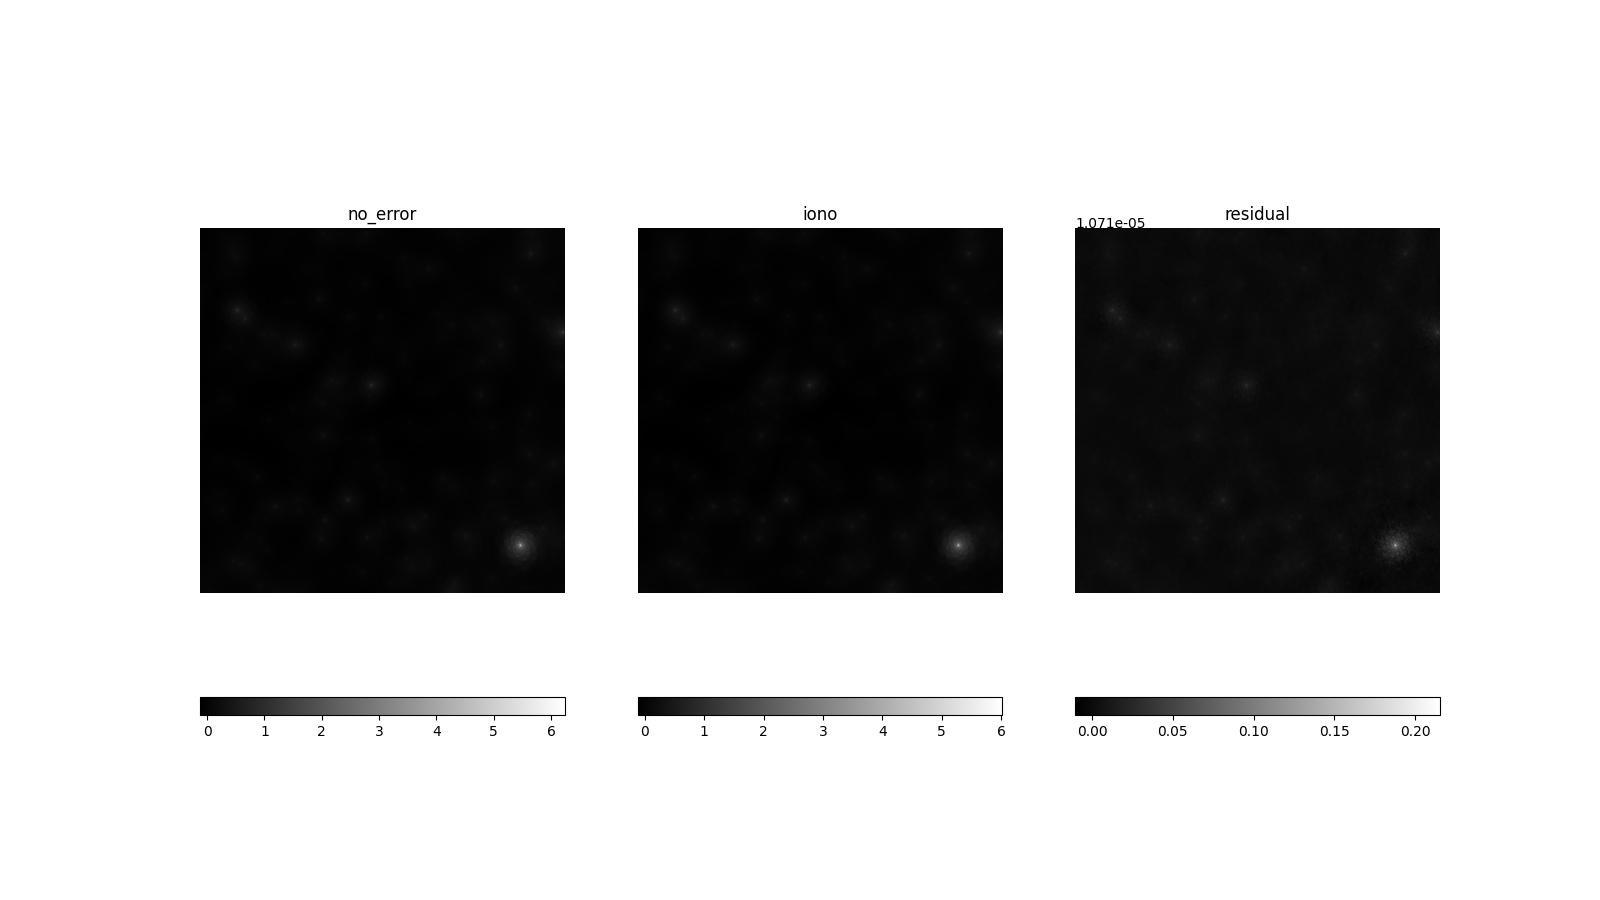
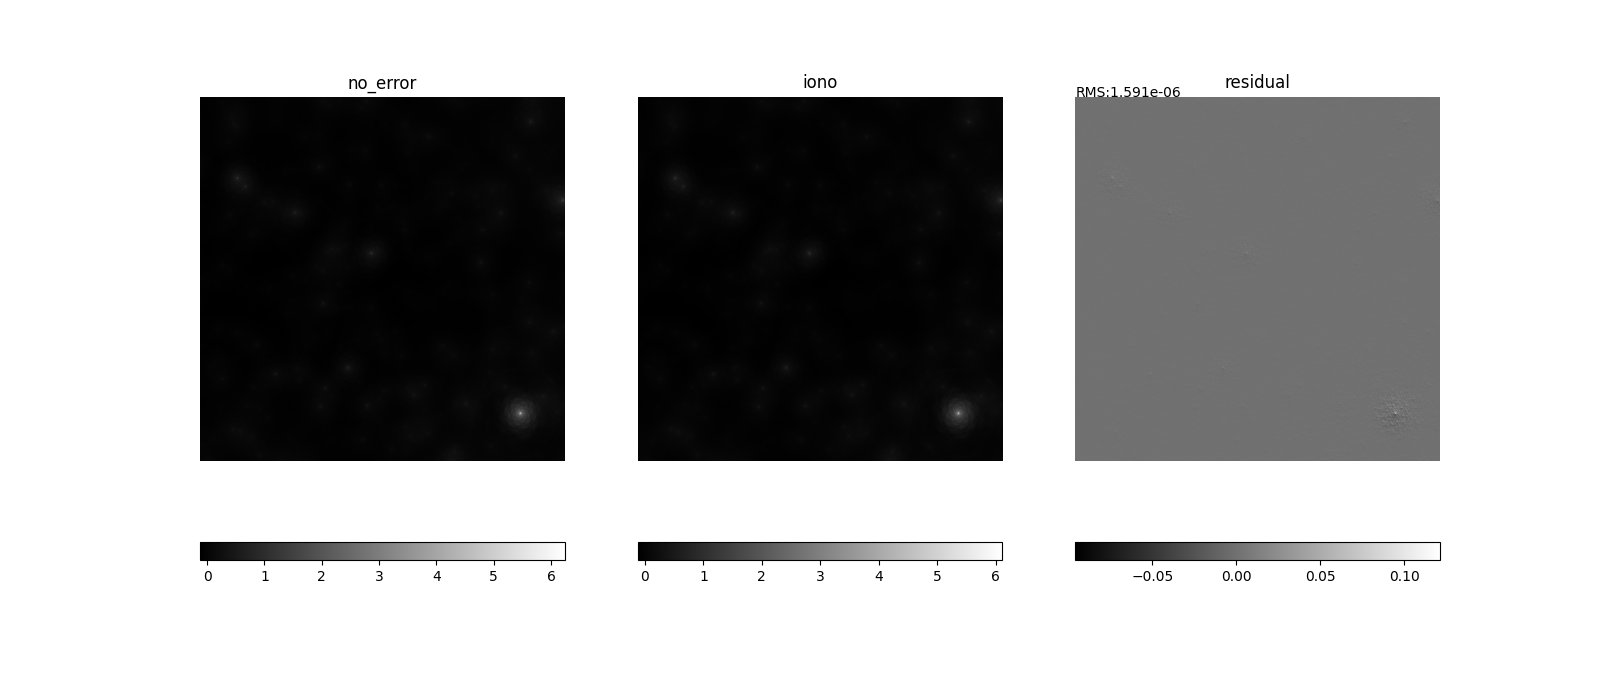
sim with python_legendre

diff --git a/run_dir/src/app_plot.py b/run_dir/src/app_plot.py
@@ -22,28 +22,13 @@ im_list = np.zeros((len(freq_list),2,8192,8192))
 
 for i,freq in enumerate(freq_list):
     for fits_name in fits_list:
-        if freq in fits_name:
+        if freq in fits_name and "fits" in fits_name:
             if "errors" in fits_name:
                 im_list[i][0] = fits.open(fits_name)[0].data[0]
             else:
                 im_list[i][1] = fits.open(fits_name)[0].data[0]
 
-# for fits_name in fits_list:
-#     if "50" in fits_name:
-#         if "errors" in fits_name:
-#             im_list[0][0] = fits.open(fits_name)[0].data[0]
-#         else:
-#             im_list[0][1] = fits.open(fits_name)[0].data[0]
-#     elif "70" in fits_name:
-#         if "errors" in fits_name:
-#             im_list[1][0] = fits.open(fits_name)[0].data[0]
-#         else:
-#             im_list[1][1] = fits.open(fits_name)[0].data[0]
-#     elif "110" in fits_name:
-#         if "errors" in fits_name:
-#             im_list[2][0] = fits.open(fits_name)[0].data[0]
-#         else:
-#             im_list[2][1] = fits.open(fits_name)[0].data[0]
+
     
 def fits_duibi(im_list):
     for i,im_pair in enumerate(im_list):
@@ -51,7 +36,7 @@ def fits_duibi(im_list):
         RMS = np.sum(np.power(residual,2)) / np.power(residual.shape[0],2)
         print ("{:.3e}".format(RMS))
 
-        plt.figure(figsize=(16,9))
+        plt.figure(figsize=(16,7))
 
         plt.subplot(131)
         plt.imshow(im_pair[0],cmap="gray")
@@ -68,7 +53,7 @@ def fits_duibi(im_list):
         plt.subplot(133)
         plt.imshow(residual,cmap="gray")
         plt.title("residual")
-        plt.text(x=0,y=0,s="{:.3e}".format(RMS))
+        plt.text(x=0,y=0,s="RMS:{:.3e}".format(RMS))
         plt.axis("off")
         plt.colorbar(orientation='horizontal')
 

diff --git a/run_dir/src/main.py b/run_dir/src/main.py
@@ -180,7 +180,7 @@ def run_single(prefix_field, settings, sky, freq_MHz, out0_name, results):
     settings["telescope/ionosphere_screen_type"] = "External"
     settings[
         "telescope/external_tec_screen/input_fits_file"
-    ] = "../pixel_4000_step_6_scale_50.fits"
+    ] = "../pixel_1000_step_6_scale_200.fits"
     settings["interferometer/oskar_vis_filename"] = out + ".vis"
     settings["interferometer/ms_filename"] = out + ".ms"
     make_vis_data(settings, sky)

diff --git a/README.md b/README.md
@@ -8,7 +8,7 @@ base_settings = {
     "simulator": {
         "double_precision": True,
         "use_gpus": True,
-        "cuda_device_ids":"0,1,2,3", # "0"
+        "cuda_device_ids":"1,2,3", # "0"
         "max_sources_per_chunk": 16384,
         "keep_log_file":True,
         "write_status_to_log_file":True,
@@ -32,11 +32,10 @@ base_settings = {
 
 ## part 2
 ```
-singularity ........
+singularity shell --nv -H $PWD oskar_python3_cuda114_newest.sif
 cd run_dir
-python3 src/main.py
 
-rm -r *fits *vis *ms *log
+rm -r *fits *vis *ms *log && python3 src/main.py
 
 main.py ionosphere line-183
 ```
